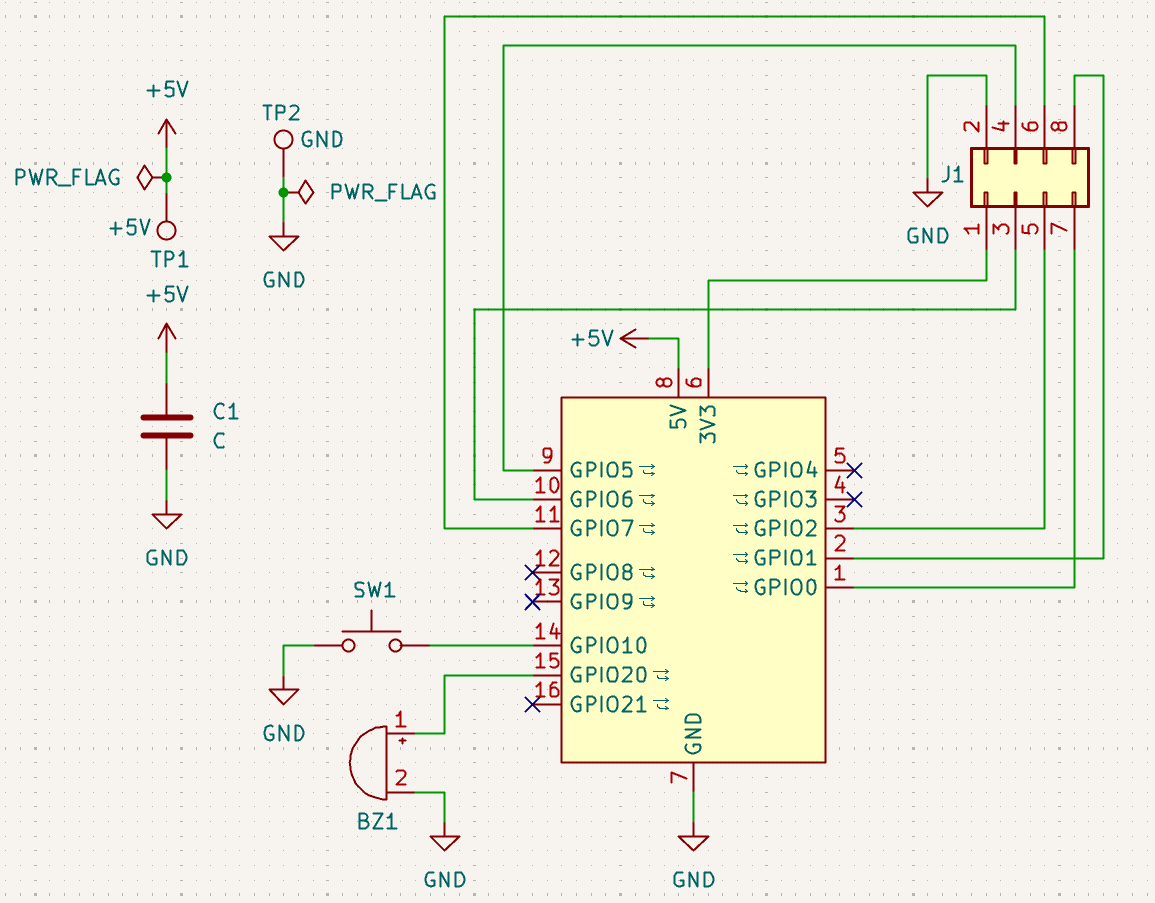
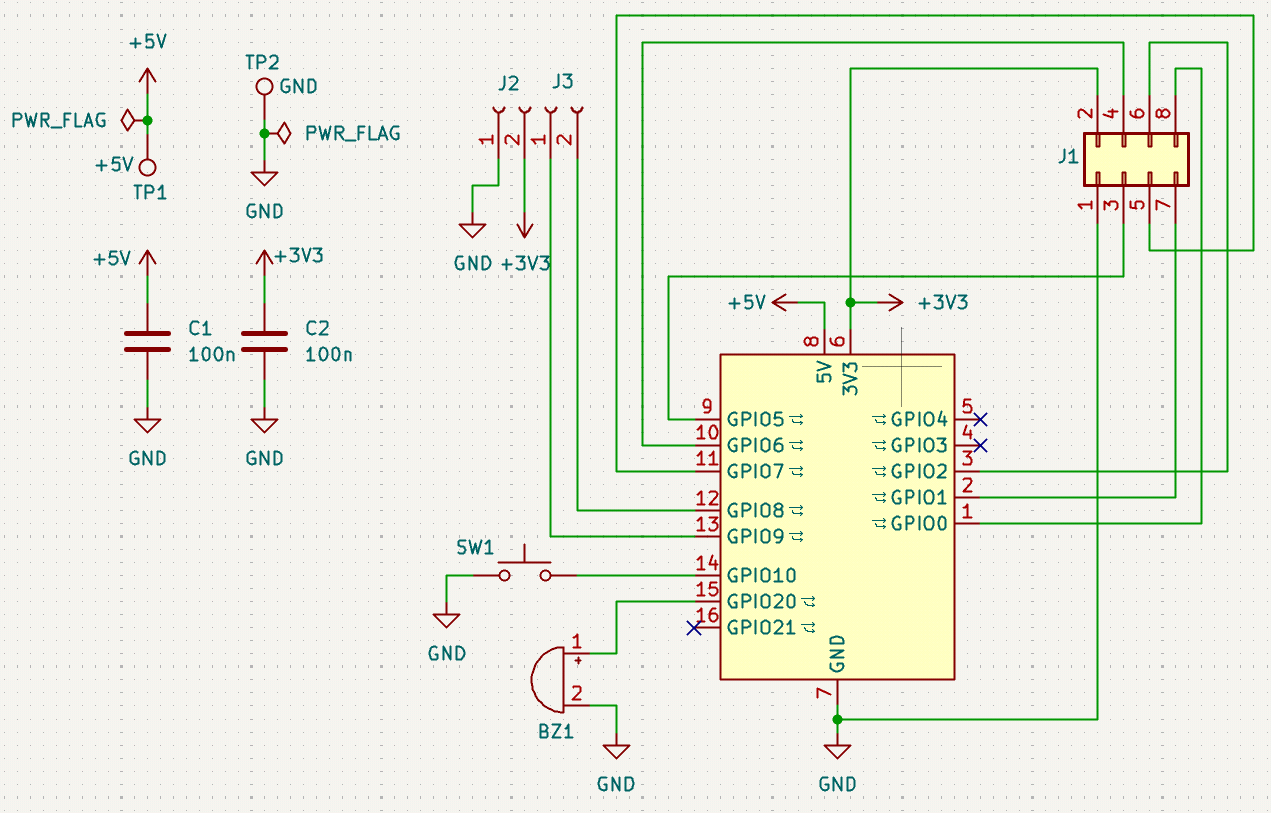
Add J2 and J3: power and I2C breakout for an off-board OLED
J3 brings GPIO8/GPIO9 out and J2 brings +3V3/GND, so an SSD1306 plugs
into the finished board with four wires rather than flying leads to
the module pins.

decisions.md §11 argued the display should be supported in firmware
but absent from the board, because a connector and a case cutout were
too much for an optional part. Two 2-pin headers are a cheaper answer
than the connector that argument rejected, and they stay unpopulated
when no display is used.

Board is now 44 holes, up from 40. DXF and drill re-exported.

diff --git a/docs/hardware.md b/docs/hardware.md
@@ -254,8 +254,10 @@ SSD1306 on them if one is present — see `docs/decisions.md` §11.
 Address 0x3C, 128 × 64. Most modules carry their own pull-ups; if yours does
 not, add 4.7 kΩ from each line to 3V3.
 
-Nothing on the PCB supports this — it is breadboard wiring, or flying leads to a
-finished board. The firmware probes for it at startup and carries on without it.
+**The board now carries headers for it:** `J3` brings GPIO8/GPIO9 out, and `J2`
+brings `+3V3` and `GND`. Four pins, and an OLED plugs straight in. The firmware
+probes for it at startup and carries on without it, so leaving both unpopulated
+costs nothing.
 
 ## The buzzer must be passive
 
